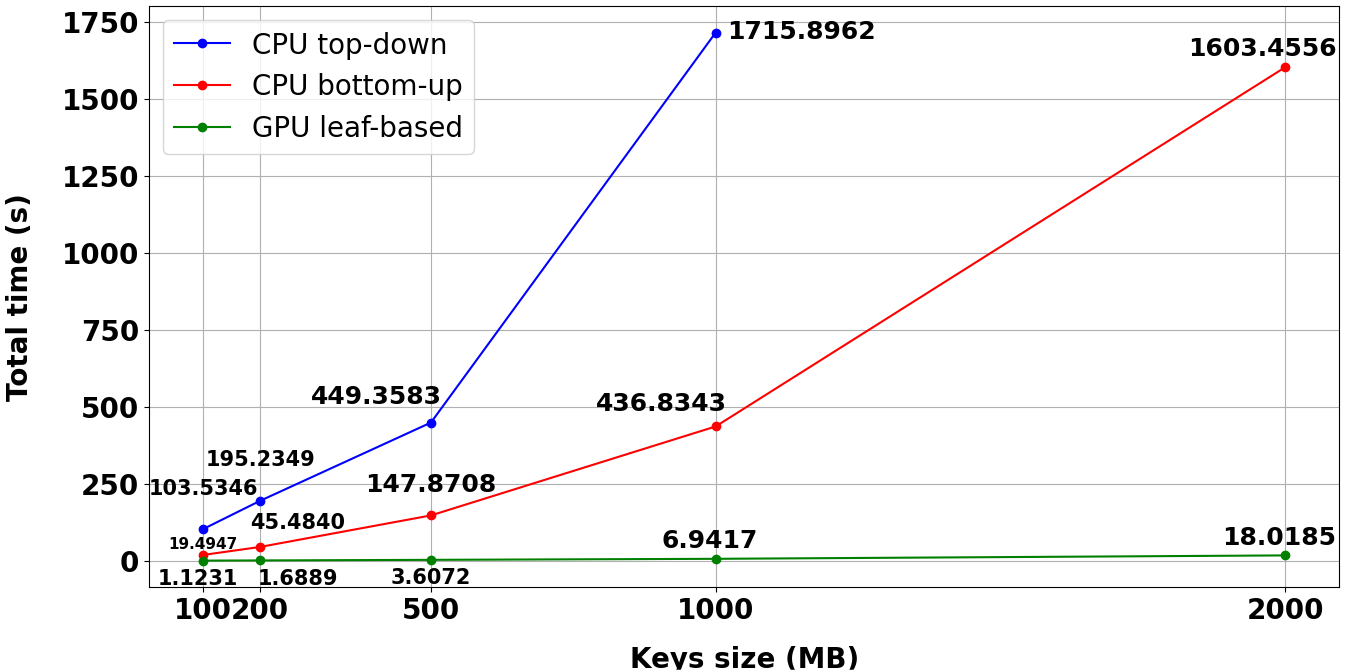
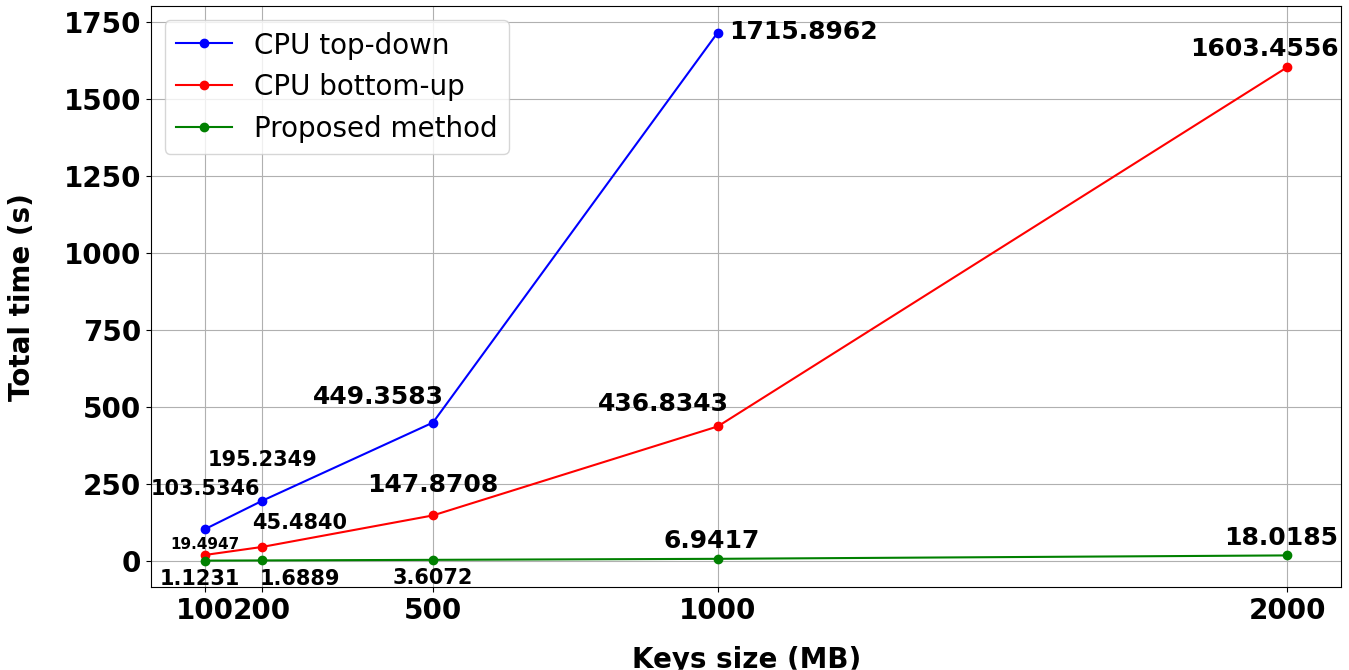
Change image and Update proposed method

diff --git a/Source/ProposedMethod.py b/Source/ProposedMethod.py
@@ -1,0 +1,175 @@
+# Reshape (final) + no Padding + read File [UI]
+import cupy as cp
+import numpy as np
+from numba import cuda, int32
+import math
+import time
+import csv
+
+
+def read_csv_data(file_path):
+    """Đọc dữ liệu từ file CSV và trả về danh sách các key."""
+    keys = []
+    try:
+        with open(file_path, 'r') as file:
+            reader = csv.reader(file)
+            for row in reader:
+                if row and row[0].strip().isdigit():
+                    keys.append(np.int32(row[0]))
+    except FileNotFoundError:
+        print(f"Error: File không tồn tại tại đường dẫn {file_path}")
+    except ValueError as e:
+        print(f"Error: Không thể chuyển đổi giá trị sang số nguyên - {e}")
+    except Exception as e:
+        print(f"Unexpected error: {e}")
+
+    return keys
+
+# @cuda.jit
+# def reshape_1d_to_2d_kernel(input_array, output_array, n):
+#     idx = cuda.grid(1)
+#     if idx < input_array.size:
+#         row = idx // n
+#         col = idx % n
+#         if row < output_array.shape[0] and col < output_array.shape[1]:
+#             output_array[row, col] = input_array[idx]
+
+@cuda.jit
+def insert_parallel_3d_kernel(output_array, sorted_keys, m, level_leaf):
+    l = cuda.blockIdx.z * cuda.blockDim.z + cuda.threadIdx.z
+    i = cuda.blockIdx.x * cuda.blockDim.x + cuda.threadIdx.x
+    k = cuda.blockIdx.y * cuda.blockDim.y + cuda.threadIdx.y
+
+    if l < output_array.shape[0] and i < output_array.shape[1] and k < output_array.shape[2]:
+        if l < level_leaf:  # Các node internal
+            position = (i * m + k + 1) * (m - 1) * m**(level_leaf - l - 1)
+            if 0 < position <= len(sorted_keys):
+                output_array[l, i, k] = sorted_keys[position - 1]
+            else:
+                output_array[l, i, k] = -1
+        else:  # Level cuối (node lá)
+            idx = i * (m-1) + k  # Vị trí trong sorted_keys
+            if idx < len(sorted_keys):
+                output_array[l, i, k] = sorted_keys[idx]
+            else:
+                output_array[l, i, k] = -1
+
+# @cuda.jit
+# def copy_leaf_nodes_kernel(sorted_keys, array, level, m):
+#     # Tính vị trí node và key trong node
+#     idx = cuda.grid(1)
+#     if idx < len(sorted_keys):
+#         node_idx = idx // (m-1)  # Số node lá
+#         key_idx = idx % (m-1)    # Vị trí key trong node
+#         if node_idx < array.shape[1]:  # Kiểm tra không vượt quá số node
+#             array[level, node_idx, key_idx] = sorted_keys[idx]
+
+@cuda.jit
+def convert_3d_to_2d_kernel(array_3d, array_2d, m, h, num_keys):
+    l = cuda.blockIdx.z * cuda.blockDim.z + cuda.threadIdx.z
+    i = cuda.blockIdx.x * cuda.blockDim.x + cuda.threadIdx.x
+    k = cuda.blockIdx.y * cuda.blockDim.y + cuda.threadIdx.y
+
+    if l < array_3d.shape[0] and i < array_3d.shape[1] and k < array_3d.shape[2]:
+        node_index = i + int(math.ceil(((math.ceil(num_keys / ((m - 1) * (m ** (h - 1 - l))))) - 1) / (m - 1)))
+        if node_index < array_2d.shape[0] and array_3d[l, i, k] != -1:
+            array_2d[node_index, k] = array_3d[l, i, k]
+
+
+def main():
+    num_keys = int(num_keys_str)
+    file_path = "DataSet/" + num_keys_str + "_unique_positive_integers.csv"
+
+    start_time_read = time.time()
+    internal_keys = read_csv_data(file_path)
+    end_time_read = time.time()
+    print(f"Thời gian đọc file {num_keys} keys: {end_time_read - start_time_read:.6f} giây")
+
+    # internal_keys = np.arange(1, num_keys + 1, dtype=np.int32)
+    
+    # Chiều cao của cây
+    # h = math.ceil(math.log(num_keys / (m - 1), m)) + 1
+    h = math.log(len(internal_keys) / (m - 1), m)
+    if (h - math.floor(h)) > 0 and (h - math.floor(h)) < 0.0000001:
+      h = math.ceil(h)
+    else:
+      h = math.ceil(h) +1
+    # Số keys mỗi Node
+    num_keys_per_node = m - 1
+
+    # Khởi tạo mảng 3 chiều cho B+ Tree TRONG GPU: (cấp độ, Node trong cấp độ, keys trong Node)
+    bptree_array = cp.zeros((h, m**(h - 1), num_keys_per_node), dtype=np.int32)
+
+    # Khởi tạo mảng 2 chiều cho B+ Tree: (Leaf Node + Internal Node, keys trong Node)
+    bptree_array_2d = cp.zeros((bptree_array.shape[1] + math.ceil(((num_keys) / (m - 1) - 1) / (m - 1)), num_keys_per_node), dtype=np.int32)
+
+    # Bắt đầu tính thời gian toàn bộ chương trình
+    start_time_total = time.time()
+
+    # Sắp xếp mảng keys bằng Cupy
+    start_time_sort = time.time()
+    internal_keys_gpu = cp.asarray(internal_keys)  # Chuyển keys sang mảng Cupy
+    internal_keys_gpu.sort()  # Sắp xếp trên GPU
+    end_time_sort = time.time()
+    print(f"Thời gian sắp xếp {num_keys} keys: {end_time_sort - start_time_sort:.4f} giây, m = {m}")
+
+    # Reshape 1D to 2D on GPU
+    # start_time_reshape = time.time()
+    # n = num_keys_per_node
+    # m_rows = (len(internal_keys) + n - 1) // n
+    # output_gpu = cuda.device_array((m_rows, n), dtype=np.int32)
+    # threads_per_block = 256
+    # blocks_per_grid = (len(internal_keys) + threads_per_block - 1) // threads_per_block
+    # reshape_1d_to_2d_kernel[blocks_per_grid, threads_per_block](internal_keys_gpu, output_gpu, n)
+    # cuda.synchronize()
+    # leaf_keys = output_gpu.copy_to_host()
+    # end_time_reshape = time.time()
+    # print(f"Thời gian reshape 1D sang 2D: {end_time_reshape - start_time_reshape:.4f} giây")
+
+    # Insert parallel 3D on GPU
+    start_time_insert = time.time()
+    threadsperblock = (8, 8, 8)
+    blockspergrid_x = max(1, int(np.ceil(bptree_array.shape[1] / threadsperblock[0])))
+    blockspergrid_y = max(1, int(np.ceil(bptree_array.shape[2] / threadsperblock[1])))
+    blockspergrid_z = max(1, int(np.ceil(bptree_array.shape[0] / threadsperblock[2])))
+    blockspergrid = (blockspergrid_x, blockspergrid_y, blockspergrid_z)
+    insert_parallel_3d_kernel[blockspergrid, threadsperblock](bptree_array, internal_keys_gpu, m, h - 1)
+    cuda.synchronize()
+    end_time_insert = time.time()
+    print(f"Thời gian chèn song song vào mảng 3D: {end_time_insert - start_time_insert:.4f} giây")
+
+    # start_time_copy = time.time()
+    # threads_per_block = 256
+    # blocks_per_grid = (len(internal_keys_gpu) + threads_per_block - 1) // threads_per_block
+    # copy_leaf_nodes_kernel[blocks_per_grid, threads_per_block](internal_keys_gpu, bptree_array, h-1, m)
+    # cuda.synchronize()
+    # end_time_copy = time.time()
+    # print(f"Thời gian sao chép Node lá: {end_time_copy - start_time_copy:.4f} giây")
+
+    # Convert 3D to 2D on GPU
+    start_time_convert = time.time()
+    threads_per_block = (8, 8, 8)
+    blocks_per_grid = (
+        int(math.ceil(bptree_array.shape[1] / threads_per_block[0])),
+        int(math.ceil(bptree_array.shape[2] / threads_per_block[1])),
+        int(math.ceil(bptree_array.shape[0] / threads_per_block[2]))
+    )
+    convert_3d_to_2d_kernel[blocks_per_grid, threads_per_block](bptree_array, bptree_array_2d, m, h, num_keys)
+    cuda.synchronize()
+    result_array_2d = cp.asnumpy(bptree_array_2d)
+    end_time_convert = time.time()
+    print(f"Thời gian chuyển đổi mảng 3D sang 2D: {end_time_convert - start_time_convert:.4f} giây")
+
+    # Tổng thời gian xây dựng cây
+    end_time_total = time.time()
+    print(f"Thời gian toàn bộ chương trình không tính đọc file: {end_time_total - start_time_total:.4f} giây")
+
+    # Hiển thị kết quả
+    # print(result_array_2d)
+
+
+if __name__ == "__main__":
+    num_keys_str = '17715610'
+    m = 11
+    # num_keys = 9000000
+    main()
